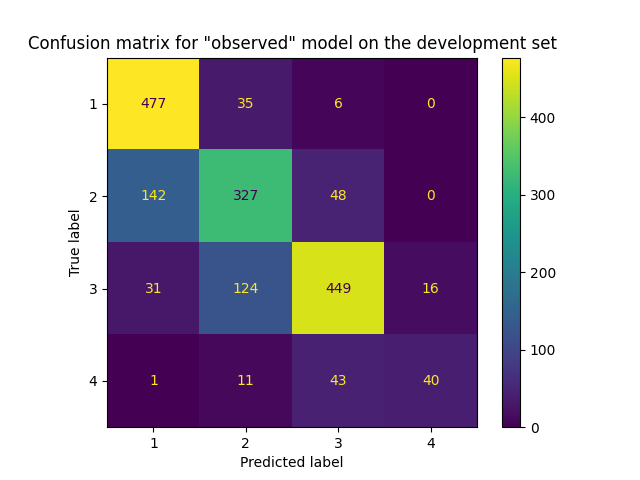
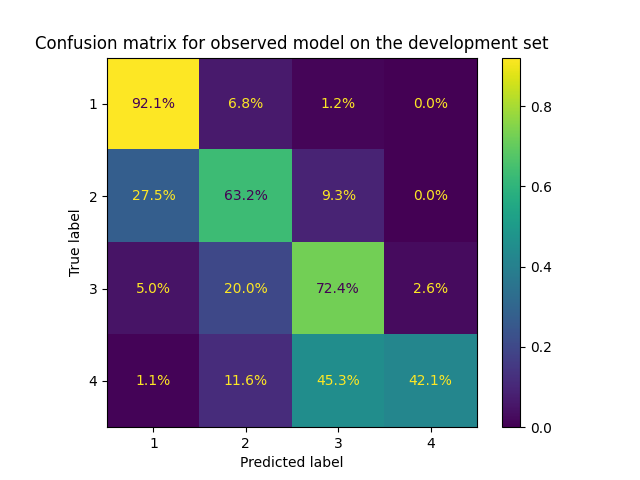
refactor: run softmax with tabularised snow profile data

diff --git a/tex/assets/tables/sais_eval_development.tex b/tex/assets/tables/sais_eval_development.tex
@@ -1,23 +1,23 @@
 \begin{table}[H]
 \caption{Evaluation metrics computed on the development set}
 \label{tbl:sais_eval_development}
-\begin{tabular}{llll}
+\begin{tabular}{lllll}
 \toprule
- & constant & "observed" & softmax regression \\
+ & constant & observed & softmax regression (snow profiles) & softmax regression (snow profiles tabularised) \\
 \midrule
-MSE & 1.5 & 0.3 & 0.9 \\
-average error & -0.8 & 0.2 & -0.2 \\
-highest error & -2 & 3 & 3 \\
-accuracy & 0.4 & 0.7 & 0.5 \\
-precision (multiclass) & [0.0, 0.0, 0.35, 0.0] & [0.73, 0.66, 0.82, 0.71] & [0.59, 0.38, 0.51, 0.04] \\
-precision (micro) & 0.4 & 0.7 & 0.5 \\
-precision (macro) & 0.1 & 0.7 & 0.4 \\
-recall (multiclass) & [0.0, 0.0, 1.0, 0.0] & [0.92, 0.63, 0.72, 0.42] & [0.53, 0.22, 0.78, 0.02] \\
-recall (micro) & 0.4 & 0.7 & 0.5 \\
-recall (macro) & 0.2 & 0.7 & 0.4 \\
-$F_1$ (multiclass) & [0.0, 0.0, 0.52, 0.0] & [0.82, 0.64, 0.77, 0.53] & [0.56, 0.28, 0.62, 0.03] \\
-$F_1$ (micro) & 0.4 & 0.7 & 0.5 \\
-$F_1$ (macro) & 0.1 & 0.7 & 0.4 \\
+MSE & 1.5 & 0.3 & 0.5 & 1.7 \\
+average error & -0.8 & 0.2 & 0.1 & -0.1 \\
+highest error & -2 & 3 & 2 & 3 \\
+accuracy & 0.4 & 0.7 & 0.6 & 0.3 \\
+precision (multiclass) & [0.0, 0.0, 0.35, 0.0] & [0.73, 0.66, 0.82, 0.71] & [0.68, 0.51, 0.66, 0.58] & [0.32, 0.3, 0.35, 0.06] \\
+precision (micro) & 0.4 & 0.7 & 0.6 & 0.3 \\
+precision (macro) & 0.1 & 0.7 & 0.6 & 0.3 \\
+recall (multiclass) & [0.0, 0.0, 1.0, 0.0] & [0.92, 0.63, 0.72, 0.42] & [0.76, 0.41, 0.77, 0.15] & [0.3, 0.29, 0.35, 0.11] \\
+recall (micro) & 0.4 & 0.7 & 0.6 & 0.3 \\
+recall (macro) & 0.2 & 0.7 & 0.5 & 0.3 \\
+$F_1$ (multiclass) & [0.0, 0.0, 0.52, 0.0] & [0.82, 0.64, 0.77, 0.53] & [0.72, 0.46, 0.71, 0.24] & [0.31, 0.29, 0.35, 0.08] \\
+$F_1$ (micro) & 0.4 & 0.7 & 0.6 & 0.3 \\
+$F_1$ (macro) & 0.1 & 0.7 & 0.5 & 0.3 \\
 \bottomrule
 \end{tabular}
 \end{table}

diff --git a/tex/assets/tables/sais_eval_test.tex b/tex/assets/tables/sais_eval_test.tex
@@ -1,23 +1,23 @@
 \begin{table}[H]
 \caption{Evaluation metrics computed on the test set}
 \label{tbl:sais_eval_test}
-\begin{tabular}{llll}
+\begin{tabular}{lllll}
 \toprule
- & constant & "observed" & softmax regression \\
+ & constant & observed & softmax regression (snow profiles) & softmax regression (snow profiles tabularised) \\
 \midrule
-MSE & 1.5 & 0.3 & 0.9 \\
-average error & -0.8 & 0.2 & -0.2 \\
-highest error & -2 & 3 & 3 \\
-accuracy & 0.4 & 0.7 & 0.5 \\
-precision (multiclass) & [0.0, 0.0, 0.35, 0.0] & [0.73, 0.66, 0.82, 0.71] & [0.59, 0.38, 0.51, 0.04] \\
-precision (micro) & 0.4 & 0.7 & 0.5 \\
-precision (macro) & 0.1 & 0.7 & 0.4 \\
-recall (multiclass) & [0.0, 0.0, 1.0, 0.0] & [0.92, 0.63, 0.72, 0.42] & [0.53, 0.22, 0.78, 0.02] \\
-recall (micro) & 0.4 & 0.7 & 0.5 \\
-recall (macro) & 0.2 & 0.7 & 0.4 \\
-$F_1$ (multiclass) & [0.0, 0.0, 0.52, 0.0] & [0.82, 0.64, 0.77, 0.53] & [0.56, 0.28, 0.62, 0.03] \\
-$F_1$ (micro) & 0.4 & 0.7 & 0.5 \\
-$F_1$ (macro) & 0.1 & 0.7 & 0.4 \\
+MSE & 2.4 & 0.2 & 0.3 & 1.9 \\
+average error & -1.4 & 0.1 & 0.0 & -0.7 \\
+highest error & -2 & 2 & 2 & -3 \\
+accuracy & 0.1 & 0.8 & 0.7 & 0.3 \\
+precision (multiclass) & [0.0, 0.0, 0.12, 0.0] & [0.82, 0.78, 0.89, 0.0] & [0.79, 0.65, 0.43, 0.0] & [0.55, 0.39, 0.13, 0.01] \\
+precision (micro) & 0.1 & 0.8 & 0.7 & 0.3 \\
+precision (macro) & 0.0 & 0.6 & 0.5 & 0.3 \\
+recall (multiclass) & [0.0, 0.0, 1.0, 0.0] & [0.93, 0.71, 0.63, 0.0] & [0.88, 0.46, 0.63, 0.0] & [0.3, 0.25, 0.39, 1.0] \\
+recall (micro) & 0.1 & 0.8 & 0.7 & 0.3 \\
+recall (macro) & 0.2 & 0.6 & 0.5 & 0.5 \\
+$F_1$ (multiclass) & [0.0, 0.0, 0.22, 0.0] & [0.87, 0.74, 0.74, 0.0] & [0.84, 0.54, 0.51, 0.0] & [0.39, 0.31, 0.2, 0.01] \\
+$F_1$ (micro) & 0.1 & 0.8 & 0.7 & 0.3 \\
+$F_1$ (macro) & 0.1 & 0.6 & 0.5 & 0.2 \\
 \bottomrule
 \end{tabular}
 \end{table}

diff --git a/tex/assets/tables/sais_eval_training.tex b/tex/assets/tables/sais_eval_training.tex
@@ -1,0 +1,23 @@
+\begin{table}[H]
+\caption{Evaluation metrics computed on the training set}
+\label{tbl:sais_eval_training}
+\begin{tabular}{lllll}
+\toprule
+ & constant & observed & softmax regression (snow profiles) & softmax regression (snow profiles tabularised) \\
+\midrule
+MSE & 1.5 & 0.3 & 0.5 & 0.4 \\
+average error & -0.8 & 0.2 & 0.1 & -0.0 \\
+highest error & -2 & 3 & 3 & 3 \\
+accuracy & 0.4 & 0.7 & 0.6 & 0.8 \\
+precision (multiclass) & [0.0, 0.0, 0.35, 0.0] & [0.75, 0.66, 0.81, 0.66] & [0.7, 0.49, 0.65, 0.61] & [0.79, 0.79, 0.77, 0.98] \\
+precision (micro) & 0.4 & 0.7 & 0.6 & 0.8 \\
+precision (macro) & 0.1 & 0.7 & 0.6 & 0.8 \\
+recall (multiclass) & [0.0, 0.0, 1.0, 0.0] & [0.92, 0.64, 0.71, 0.36] & [0.77, 0.42, 0.75, 0.13] & [0.77, 0.77, 0.82, 0.92] \\
+recall (micro) & 0.4 & 0.7 & 0.6 & 0.8 \\
+recall (macro) & 0.2 & 0.7 & 0.5 & 0.8 \\
+$F_1$ (multiclass) & [0.0, 0.0, 0.52, 0.0] & [0.83, 0.65, 0.76, 0.47] & [0.73, 0.45, 0.7, 0.22] & [0.78, 0.78, 0.8, 0.95] \\
+$F_1$ (micro) & 0.4 & 0.7 & 0.6 & 0.8 \\
+$F_1$ (macro) & 0.1 & 0.7 & 0.5 & 0.8 \\
+\bottomrule
+\end{tabular}
+\end{table}

diff --git a/src/utils/error_metrics.py b/src/utils/error_metrics.py
@@ -149,7 +149,7 @@ class MulticlassErrorMetrics:
             y_true, y_pred, average="macro"
         )
         df_metrics.loc[model_name, self._metrics[-1]] = metrics.confusion_matrix(
-            y_true, y_pred, normalize="all"
+            y_true, y_pred, normalize="true"
         )
 
     def save_assets(self):
@@ -157,7 +157,7 @@ class MulticlassErrorMetrics:
         for ds_type, table in self.tables.items():
             confusion_matrices = table.iloc[:, -1]
             tbl = table.iloc[:, :-1].T
-            set_name = str(ds_type)
+            set_name = ds_type.value
             LatexHelpers.save_as_latex_table(
                 tbl,
                 name=f"{self.dataset_name}_eval_{set_name}",
